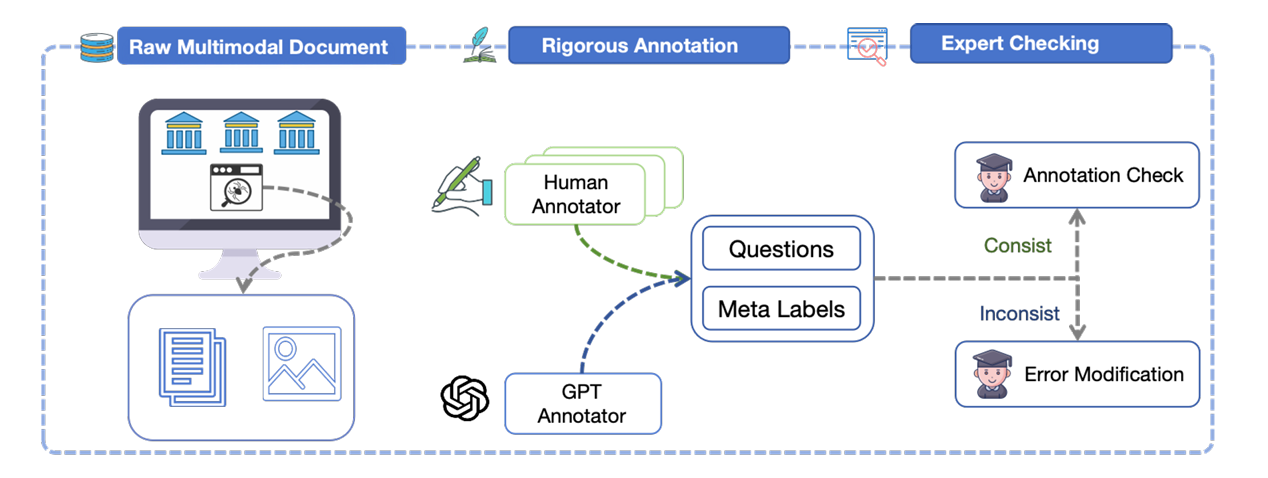
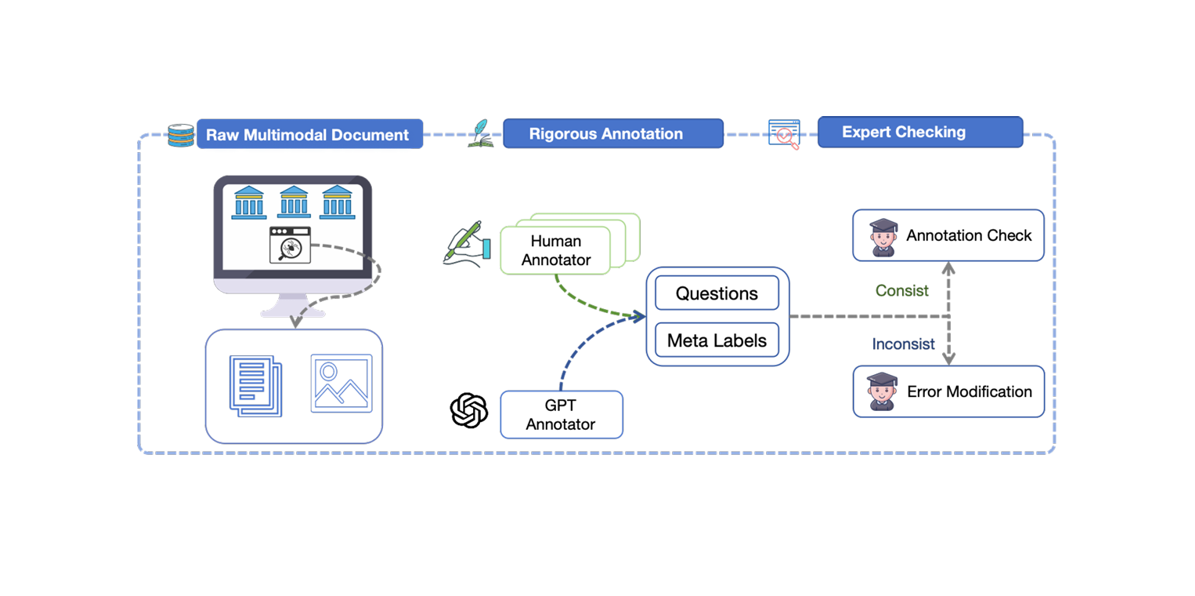
update new png

Changed region(s): [[0.031, 0.0293, 0.9598, 0.9665]]

diff --git a/index.html b/index.html
@@ -116,6 +116,15 @@
         <img src="website_images\dataset_section\dataset_altogether.jpg" alt="Dataset" />
     </div>
 
+    <div class="section-heading">
+        Evaluation Process
+    </div>
+
+    <div class="image-container-dataset-big-one">
+        <img src="website_images\evaluation_section\process.png" alt="Dataset" />
+        <p style="text-align: center;font-size: 30px;color: #555;">Four stages of the evaluation process</p>
+    </div>
+
 
 
 
